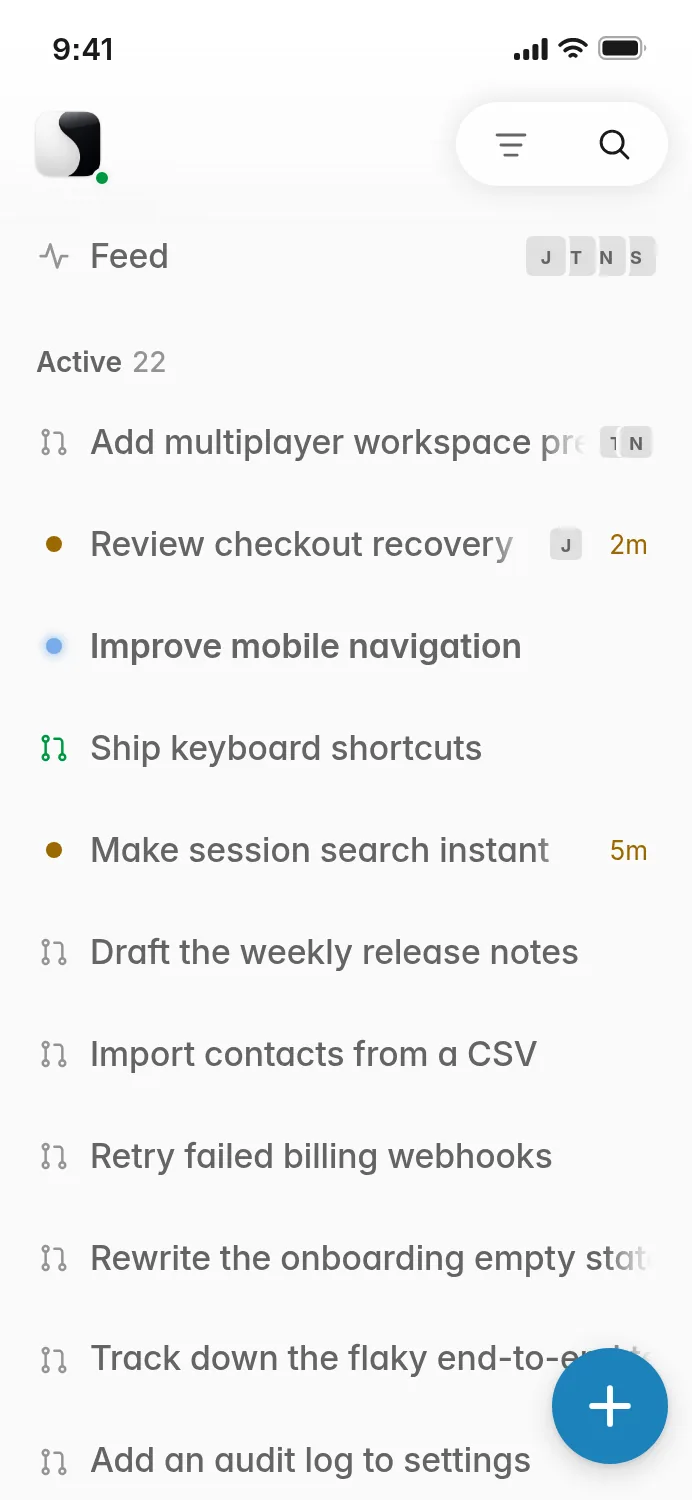
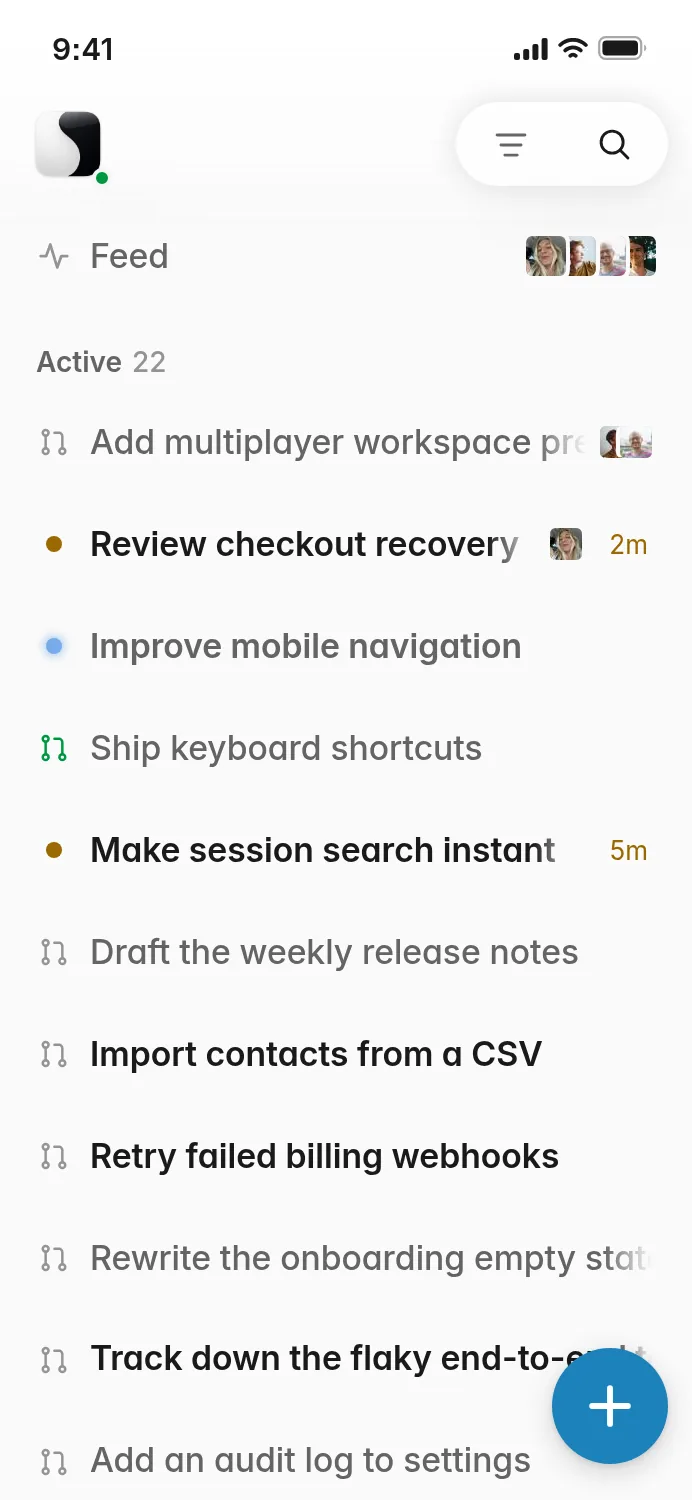
Use Tella team in landing demo

diff --git a/packages/clients/website/product-demo-main.tsx b/packages/clients/website/product-demo-main.tsx
@@ -21,9 +21,9 @@ const sessions: UnifiedSession[] = [
 		id: activeSessionId,
 		claudeSessionId: "demo-presence",
 		source: "opensession",
-		branch: "maya/workspace-presence",
+		branch: "kent/workspace-presence",
 		worktreeDir: "/workspace/opensession",
-		startedBy: "Maya",
+		startedBy: "Kent",
 		title: "Add multiplayer workspace presence",
 		lastActivity: minutesAgo(4),
 		createdAt: minutesAgo(38),
@@ -50,9 +50,9 @@ const sessions: UnifiedSession[] = [
 		id: "bks-demo-checkout",
 		claudeSessionId: "demo-checkout",
 		source: "opensession",
-		branch: "maya/checkout-recovery",
+		branch: "kent/checkout-recovery",
 		worktreeDir: "/workspace/checkout",
-		startedBy: "Maya",
+		startedBy: "Kent",
 		title: "Review checkout recovery",
 		lastActivity: minutesAgo(1),
 		createdAt: minutesAgo(52),
@@ -68,9 +68,9 @@ const sessions: UnifiedSession[] = [
 		id: "bks-demo-mobile",
 		claudeSessionId: "demo-mobile",
 		source: "opensession",
-		branch: "maya/mobile-navigation",
+		branch: "kent/mobile-navigation",
 		worktreeDir: "/workspace/mobile",
-		startedBy: "Maya",
+		startedBy: "Kent",
 		title: "Improve mobile navigation",
 		lastActivity: minutesAgo(9),
 		createdAt: minutesAgo(74),
@@ -86,9 +86,9 @@ const sessions: UnifiedSession[] = [
 		id: "bks-demo-shortcuts",
 		claudeSessionId: "demo-shortcuts",
 		source: "opensession",
-		branch: "maya/keyboard-shortcuts",
+		branch: "kent/keyboard-shortcuts",
 		worktreeDir: "/workspace/shortcuts",
-		startedBy: "Maya",
+		startedBy: "Kent",
 		title: "Ship keyboard shortcuts",
 		lastActivity: minutesAgo(21),
 		createdAt: minutesAgo(96),
@@ -109,9 +109,9 @@ const sessions: UnifiedSession[] = [
 		id: "bks-demo-search",
 		claudeSessionId: "demo-search",
 		source: "opensession",
-		branch: "maya/faster-session-search",
+		branch: "kent/faster-session-search",
 		worktreeDir: "/workspace/search",
-		startedBy: "Maya",
+		startedBy: "Kent",
 		title: "Make session search instant",
 		lastActivity: minutesAgo(1),
 		createdAt: minutesAgo(129),
@@ -127,9 +127,9 @@ const sessions: UnifiedSession[] = [
 		id: "bks-demo-release",
 		claudeSessionId: "demo-release",
 		source: "opensession",
-		branch: "maya/release-notes",
+		branch: "kent/release-notes",
 		worktreeDir: "/workspace/release",
-		startedBy: "Maya",
+		startedBy: "Kent",
 		title: "Draft the weekly release notes",
 		lastActivity: minutesAgo(47),
 		createdAt: minutesAgo(163),
@@ -161,9 +161,9 @@ const sessions: UnifiedSession[] = [
 		id: `bks-demo-${slug}`,
 		claudeSessionId: `demo-${slug}`,
 		source: "opensession" as const,
-		branch: `maya/${slug}`,
+		branch: `kent/${slug}`,
 		worktreeDir: `/workspace/${slug}`,
-		startedBy: "Maya",
+		startedBy: "Kent",
 		title,
 		lastActivity: minutesAgo(activeMinutes),
 		createdAt: minutesAgo(createdMinutes),
@@ -188,20 +188,20 @@ const sessions: UnifiedSession[] = [
  */
 const shippedCommits = (
 	[
-		["jordan", "Jordan Lee", "Keep the composer draft when a session switches", 96, 31, 25],
-		["nina", "Nina Patel", "Batch transcript writes behind one flush", 240, 118, 96],
-		["maya", "Maya Chen", "Cache repo icons so the sidebar stops flashing", 58, 12, 187],
-		["theo", "Theo Martin", "Give the run banner a real elapsed clock", 64, 22, 291],
-		["sam", "Sam Rivera", "Sign preview links with a short-lived token", 148, 57, 448],
-		["theo", "Theo Martin", "Round the session rows to match the panel", 41, 38, 1495],
-		["jordan", "Jordan Lee", "Show who else is reading a session", 203, 64, 1602],
-		["maya", "Maya Chen", "Stop the sidebar jumping to the top on rename", 27, 9, 1744],
-		["nina", "Nina Patel", "Move the diff parser off the main thread", 312, 140, 1860],
-		["sam", "Sam Rivera", "Add a health check to the deploy workflow", 72, 5, 1938],
-		["jordan", "Jordan Lee", "Name the model in the composer footer", 33, 11, 2905],
-		["nina", "Nina Patel", "Drop the duplicate presence broadcast", 18, 96, 3050],
-		["maya", "Maya Chen", "Write the archive filter into the URL", 88, 26, 3180],
-		["theo", "Theo Martin", "Tighten the empty state on the reviews page", 52, 18, 3295],
+		["louise", "Louise de Sadeleer", "Keep the composer draft when a session switches", 96, 31, 25],
+		["jaap", "Jaap Frolich", "Batch transcript writes behind one flush", 240, 118, 96],
+		["kent", "Kent de Bruin", "Cache repo icons so the sidebar stops flashing", 58, 12, 187],
+		["michiel", "Michiel Westerbeek", "Give the run banner a real elapsed clock", 64, 22, 291],
+		["grant", "Grant Shaddick", "Sign preview links with a short-lived token", 148, 57, 448],
+		["michiel", "Michiel Westerbeek", "Round the session rows to match the panel", 41, 38, 1495],
+		["louise", "Louise de Sadeleer", "Show who else is reading a session", 203, 64, 1602],
+		["kent", "Kent de Bruin", "Stop the sidebar jumping to the top on rename", 27, 9, 1744],
+		["jaap", "Jaap Frolich", "Move the diff parser off the main thread", 312, 140, 1860],
+		["grant", "Grant Shaddick", "Add a health check to the deploy workflow", 72, 5, 1938],
+		["louise", "Louise de Sadeleer", "Name the model in the composer footer", 33, 11, 2905],
+		["jaap", "Jaap Frolich", "Drop the duplicate presence broadcast", 18, 96, 3050],
+		["kent", "Kent de Bruin", "Write the archive filter into the URL", 88, 26, 3180],
+		["michiel", "Michiel Westerbeek", "Tighten the empty state on the reviews page", 52, 18, 3295],
 	] as const
 ).map(([person, author, title, additions, deletions, minutes], index) => ({
 	repo: "opensession",
@@ -227,9 +227,9 @@ const unreadSessionIds = new Set([
 ]);
 
 const demoPresence = [
-	{ user: "Theo", sessionId: activeSessionId },
-	{ user: "Nina", sessionId: activeSessionId },
-	{ user: "Jordan", sessionId: "bks-demo-checkout" },
+	{ user: "Michiel", sessionId: activeSessionId },
+	{ user: "Jaap", sessionId: activeSessionId },
+	{ user: "Louise", sessionId: "bks-demo-checkout" },
 ];
 
 const transcripts: Record<string, TranscriptEntry[]> = {
@@ -415,7 +415,7 @@ const projects = sessions.map((session, index) => ({
 	id: session.workspaceId!,
 	name: session.title.replace(/^(Add|Review|Improve|Ship) /, ""),
 	repo: "opensession",
-	createdBy: session.startedBy || "Maya",
+	createdBy: session.startedBy || "Kent",
 	createdAt: session.createdAt,
 	order: index,
 }));
@@ -431,17 +431,15 @@ const responseFor = (url: URL, method: string): Response => {
 	const path = url.pathname.replace(/^\/(opensession|backstage)/, "");
 	if (path === "/api/sessions") return json(sessions, { headers: { ETag: '"demo-v1"' } });
 	if (path === "/api/auth/status")
-		return json({ required: false, authenticated: true, local: true, name: "Maya Chen" });
+		return json({ required: false, authenticated: true, local: true, name: "Kent de Bruin" });
 	if (path === "/api/people")
 		return json({
-			// Fictional teammates without remote avatar handles keep every byte of
-			// the preview local. UserAvatar renders their initials instead.
 			people: [
-				{ name: "Maya", fullName: "Maya Chen" },
-				{ name: "Theo", fullName: "Theo Martin" },
-				{ name: "Nina", fullName: "Nina Patel" },
-				{ name: "Sam", fullName: "Sam Rivera" },
-				{ name: "Jordan", fullName: "Jordan Lee" },
+				{ name: "Kent", fullName: "Kent de Bruin", github: "kentdebruin" },
+				{ name: "Michiel", fullName: "Michiel Westerbeek", github: "happylinks" },
+				{ name: "Jaap", fullName: "Jaap Frolich", github: "jfrolich" },
+				{ name: "Grant", fullName: "Grant Shaddick", github: "9ranty" },
+				{ name: "Louise", fullName: "Louise de Sadeleer", github: "louisedesadeleer" },
 			],
 		});
 	if (path === "/api/projects") return json({ projects });
@@ -601,7 +599,7 @@ class DemoWebSocket extends EventTarget {
 				entries,
 				truncated: false,
 			});
-			this.emit({ type: "presence", sessionId: message.sessionId, viewers: ["Theo", "Nina"] }, 80);
+			this.emit({ type: "presence", sessionId: message.sessionId, viewers: ["Michiel", "Jaap"] }, 80);
 			return;
 		}
 		if (message.type === "prompt") {
@@ -622,7 +620,7 @@ class DemoWebSocket extends EventTarget {
 			};
 			this.emit({ type: "transcript_append", sessionId: message.sessionId, entries: [userEntry] });
 			this.emit({ type: "session_status", sessionId: message.sessionId, isRunning: true }, 60);
-			this.emit({ type: "stream_start", sessionId: message.sessionId, by: "Maya" }, 120);
+			this.emit({ type: "stream_start", sessionId: message.sessionId, by: "Kent" }, 120);
 			this.emit({ type: "stream_text", sessionId: message.sessionId, text: assistantEntry.content }, 260);
 			this.emit({ type: "transcript_append", sessionId: message.sessionId, entries: [assistantEntry] }, 900);
 			this.emit({ type: "stream_done", sessionId: message.sessionId }, 920);
@@ -677,11 +675,11 @@ Object.assign(window, {
 document.documentElement.dataset.platform = "mac";
 document.documentElement.classList.add("wco");
 
-localStorage.setItem("opensession-user", "Maya");
+localStorage.setItem("opensession-user", "Kent");
 localStorage.setItem("opensession-last-session", activeSessionId);
 // The restore is per-user: without the matching owner the demo opens Home
 // instead of the session it was written to show.
-localStorage.setItem("opensession-last-session-user", "Maya");
+localStorage.setItem("opensession-last-session-user", "Kent");
 localStorage.setItem("opensession-panel-open", "false");
 // The workspace summary card is open by default in the product, and it paints
 // over the transcript for the frames before the header is measured. That flash
@@ -697,7 +695,7 @@ localStorage.setItem("opensession-repo-count", "1");
 // unread once it HAS a mark that its activity has since passed, so every other
 // session is marked at its own last activity rather than left unmarked.
 localStorage.setItem(
-	"opensession-reads:maya",
+	"opensession-reads:kent",
 	JSON.stringify(
 		Object.fromEntries(
 			sessions.map((session) => [
